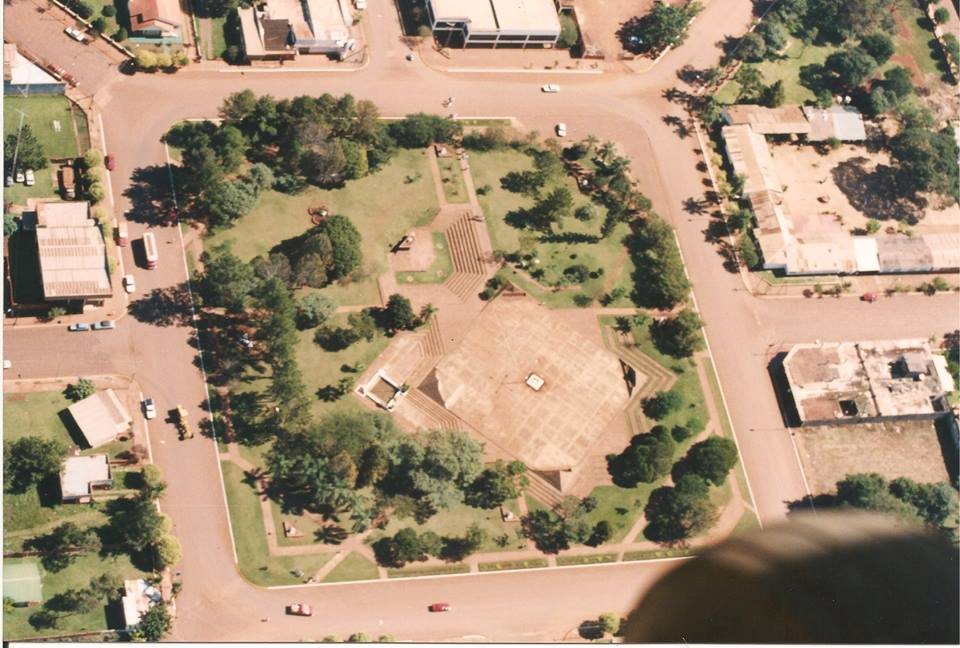
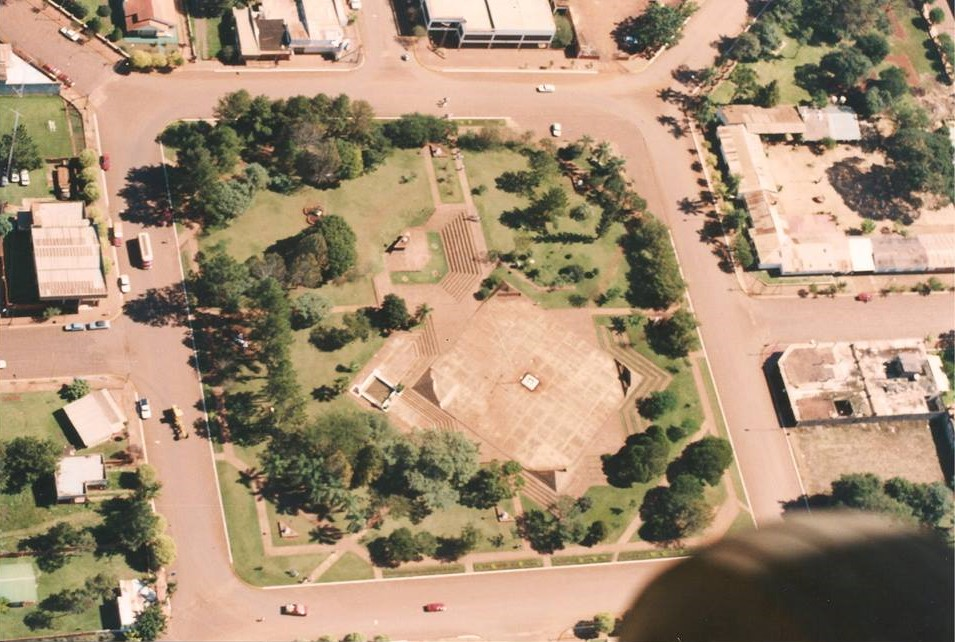
agregado de nuevas fotos para la plaza colon

diff --git a/src/components/CuerpoPlaza.jsx b/src/components/CuerpoPlaza.jsx
@@ -17,7 +17,7 @@ export default function Cuerpo() {
         "./images/PlazaColon/VistaAerea.jpg",
         "./images/PlazaColon/Plaza3.jpg",
         "./images/PlazaColon/Plaza4.jpg",
-        "./images/PlazaColon/plazavista.jpg",
+        "./images/PlazaColon/plaza1996.jpg",
         "./images/PlazaColon/Aerea01.jpg",
         "./images/PlazaColon/Aerea02.jpg",
         "./images/PlazaColon/Aerea03.jpg",
@@ -31,6 +31,14 @@ export default function Cuerpo() {
         "./images/PlazaColon/img7.jpg",
         "./images/PlazaColon/img8.jpg",
         "./images/PlazaColon/img9.jpg",
+        "./images/PlazaColon/img10.jpg",
+        "./images/PlazaColon/img11.jpg",
+        "./images/PlazaColon/img12.jpg",
+        "./images/PlazaColon/img13.jpg",
+        "./images/PlazaColon/img14.jpg",
+        "./images/PlazaColon/img15.jpg",
+        "./images/PlazaColon/img16.jpg",
+        
   ];
 
   useEffect(() => {
